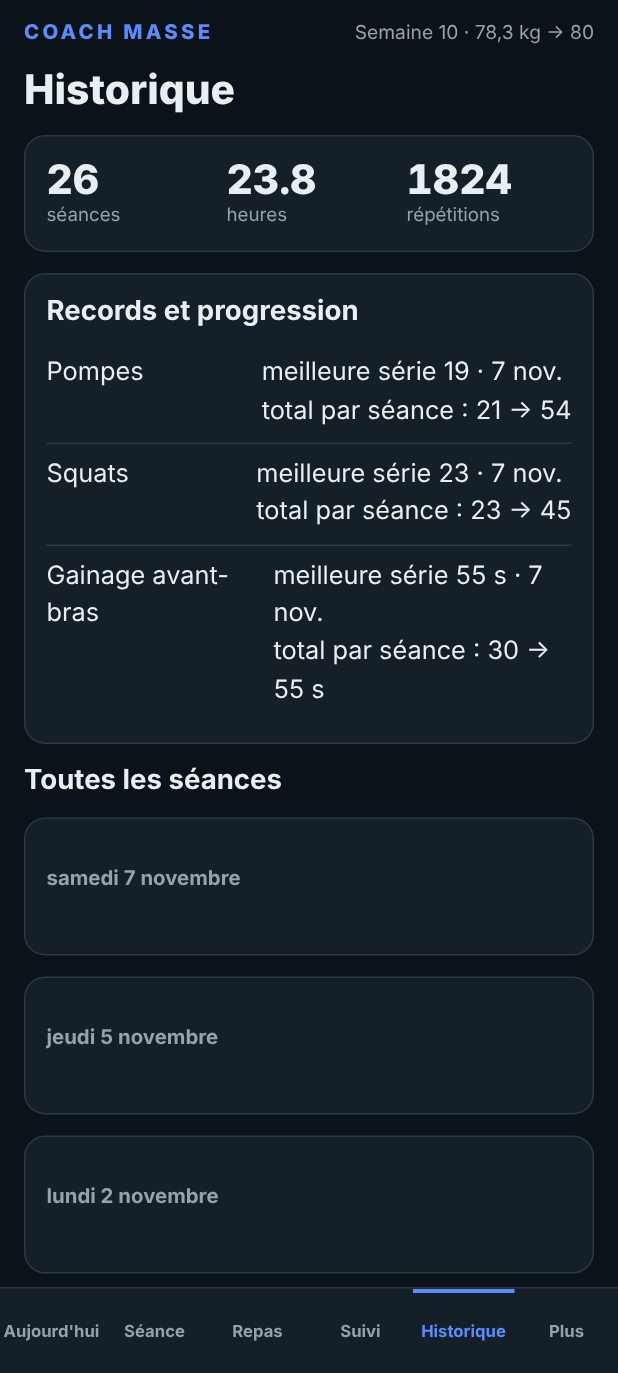
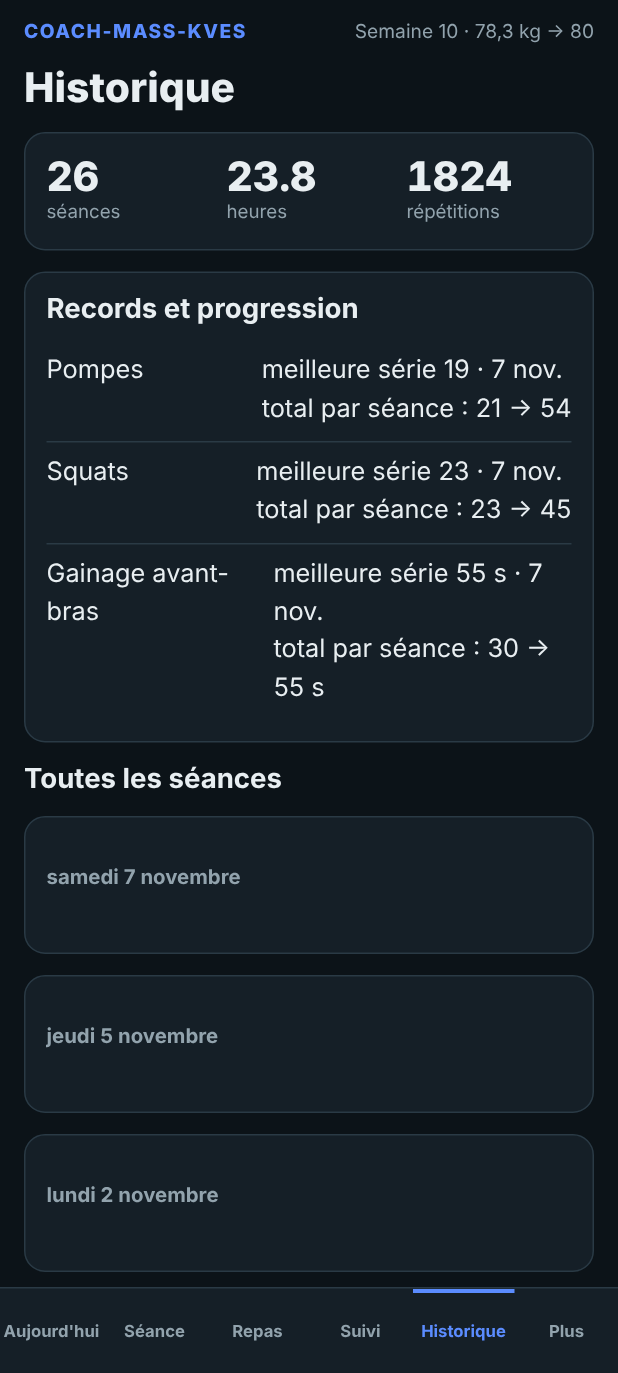
Add files via upload

diff --git a/app.js b/app.js
@@ -1,13 +1,15 @@
-/* FICHIER GÉNÉRÉ par build.js à partir de src/. Ne le modifie pas à la main : modifie src/ puis lance : node build.js */
+/* © KVES · Coach-Mass-KVES. FICHIER GÉNÉRÉ par build.js à partir de src/. Ne le modifie pas à la main : modifie src/ puis lance : node build.js */
 (function () {
 'use strict';
 
+/* © KVES · Coach-Mass-KVES */
 
 /* ====================== données fixes ====================== */
 var KEY = 'coach-masse-v1';
 var JOURS = ['Dim', 'Lun', 'Mar', 'Mer', 'Jeu', 'Ven', 'Sam'];
 
-var VERSION = '9';
+var VERSION = '10';
+var NOM = 'Coach-Mass-KVES', AUTEUR = 'KVES';
 var WARM = [
   { l: 'Sauts légers sur place', s: 60, fig: 'jump', period: 0.9 },
   { l: 'Rotations des épaules et des hanches', s: 60, fig: 'arms', period: 2.4 },
@@ -81,6 +83,7 @@ var MEALS = [
 var EXTRA = { t: 'Avant de dormir', x: 'Verre de lait + 1 pain à l\'amlou (ajout de 300 kcal)', k: 300, p: 10 };
 var BASE_KCAL = MEALS.reduce(function (a, m) { return a + m.k; }, 0);
 
+/* © KVES · Coach-Mass-KVES */
 /* ====================== état ====================== */
 function pad(n) { return String(n).padStart(2, '0'); }
 function dstr(d) { return d.getFullYear() + '-' + pad(d.getMonth() + 1) + '-' + pad(d.getDate()); }
@@ -165,6 +168,7 @@ function suggestion() {
   return null;
 }
 
+/* © KVES · Coach-Mass-KVES */
 /* ====================== utilitaires UI ====================== */
 function $(s, r) { return (r || document).querySelector(s); }
 function esc(s) { return String(s).replace(/[&<>"]/g, function (c) { return { '&': '&amp;', '<': '&lt;', '>': '&gt;', '"': '&quot;' }[c]; }); }
@@ -183,6 +187,7 @@ function drawEx(e, single) {
     figure(e.a, 0, e.la) + (single ? '' : figure(e.b, 220, e.lb, e.bad2)) + '</svg></div>';
 }
 
+/* © KVES · Coach-Mass-KVES */
 /* ====================== animations ====================== */
 var REDUCED = false;
 try { REDUCED = window.matchMedia('(prefers-reduced-motion: reduce)').matches; } catch (e) {}
@@ -259,6 +264,7 @@ function frame(ts) {
   }
 }
 
+/* © KVES · Coach-Mass-KVES */
 /* ====================== coach (messages) ====================== */
 function pick(a) { var d = new Date(); return a[(d.getDate() + d.getHours()) % a.length]; }
 function coachMsg() {
@@ -274,6 +280,7 @@ function coachMsg() {
   return ['Jour de récupération', pick(['Récupération. 30 minutes de marche, tes 5 repas, 2,5 litres d\'eau. Rien de plus, rien de moins.', 'Pas de séance. Le muscle se construit maintenant : mange, bois, dors.'])];
 }
 
+/* © KVES · Coach-Mass-KVES */
 /* ====================== rendu des onglets ====================== */
 var tab = 'today';
 var view = $('#view');
@@ -342,6 +349,7 @@ function viewMeals() {
   return h;
 }
 
+/* © KVES · Coach-Mass-KVES */
 var CH = { range: 56, ex: 'total' };
 var delArmed = -1;
 function sdate(d) { return new Date(d + 'T00:00:00').toLocaleDateString('fr-FR', { day: 'numeric', month: 'short' }); }
@@ -515,6 +523,7 @@ function viewHistory() {
   return h;
 }
 
+/* © KVES · Coach-Mass-KVES */
 function tog(key, label, hint) {
   return '<label class="meal"><input type="checkbox" data-set="' + key + '"' + (P[key] ? ' checked' : '') + '><span><b>' + label + '</b>' + (hint ? '<br><span class="small">' + hint + '</span>' : '') + '</span></label>';
 }
@@ -550,6 +559,7 @@ function render() {
   document.querySelectorAll('#nav button').forEach(function (b) { b.classList.toggle('on', b.getAttribute('data-v') === (({ avis: 'more', settings: 'more', owner: 'more' })[tab] || tab)); });
 }
 
+/* © KVES · Coach-Mass-KVES */
 /* ====================== audio, voix, vibration ====================== */
 var actx = null;
 function unlockAudio() {
@@ -615,6 +625,7 @@ function wake() { try { if (navigator.wakeLock) navigator.wakeLock.request('scre
 function unwake() { try { wl && wl.release(); } catch (e) {} wl = null; }
 document.addEventListener('visibilitychange', function () { if (R && document.visibilityState === 'visible') wake(); });
 
+/* © KVES · Coach-Mass-KVES */
 /* ====================== séance guidée ====================== */
 var R = null;
 var runner = $('#runner');
@@ -803,6 +814,7 @@ function drawDone() {
   runner.innerHTML = h;
 }
 
+/* © KVES · Coach-Mass-KVES */
 /* ====================== boîte à avis (chiffrée de bout en bout) ====================== */
 /* Principe : l'avis est chiffré sur le téléphone de l'utilisateur avec la clé PUBLIQUE du propriétaire
    (ECDH P-256 éphémère + HKDF-SHA256 + AES-256-GCM). Seule la clé PRIVÉE du propriétaire, gardée sur son
@@ -968,7 +980,7 @@ function owIngest(text) {
   });
 }
 function owReadable() {
-  var out = 'Avis reçus - Coach Masse (export du ' + today() + ')\n\n';
+  var out = 'Avis reçus - Coach-Mass-KVES (export du ' + today() + ')\n\n';
   OW.items.slice().reverse().forEach(function (x) {
     var d = x.data;
     if (!d) return;
@@ -978,12 +990,13 @@ function owReadable() {
 }
 
 /* envoi par l'utilisateur */
-function avText(code) { return 'Avis pour Coach Masse (chiffré : seul le propriétaire peut le lire)\n' + code; }
+function avText(code) { return 'Avis pour Coach-Mass-KVES (chiffré : seul le propriétaire peut le lire)\n' + code; }
 function avValidate() {
   var n = AV.name.trim(), e = AV.email.trim(), m = AV.msg.trim();
   if (n.length < 2) return 'Écris ton nom.';
   if (!EMAIL_RE.test(e)) return 'Écris une adresse e-mail valide.';
   if (m.length < 5) return 'Écris ton message (5 caractères minimum).';
+  if (/CM[01]\.[A-Za-z0-9_-]{40,}/.test(m) || /^Avis pour Coach/i.test(m)) return 'Ton message contient un code d\'avis déjà chiffré. Efface-le et écris ton texte à la main.';
   if (!AV.consent) return 'Coche la case pour accepter.';
   var last = D.avis.sent[0];
   if (last && Date.now() - last.id < 30000) return 'Attends quelques secondes avant un nouvel avis.';
@@ -1009,11 +1022,11 @@ function avShare(it, via) {
   var text = avText(it.code);
   function mark() { it.shared = true; save(); render(); }
   if (via === 'mail' && CFG.email) {
-    mark(); window.location.href = 'mailto:' + CFG.email + '?subject=' + encodeURIComponent('Avis Coach Masse') + '&body=' + encodeURIComponent(text);
+    mark(); window.location.href = 'mailto:' + CFG.email + '?subject=' + encodeURIComponent('Avis Coach-Mass-KVES') + '&body=' + encodeURIComponent(text);
   } else if (via === 'wa' && CFG.whatsapp) {
     mark(); window.open('https://wa.me/' + String(CFG.whatsapp).replace(/\D/g, '') + '?text=' + encodeURIComponent(text), '_blank');
   } else if (navigator.share) {
-    navigator.share({ title: 'Avis Coach Masse', text: text }).then(mark).catch(function () {});
+    navigator.share({ title: 'Avis Coach-Mass-KVES', text: text }).then(mark).catch(function () {});
   } else { copyText(text); }
 }
 
@@ -1023,7 +1036,7 @@ function viewMore() {
   return '<h1>Plus</h1>' +
     '<div class="card"><h2>Boîte à avis</h2><p class="small">Une idée, un problème, un merci ? Ton avis est chiffré sur ton téléphone avant l\'envoi : seul le propriétaire de l\'application peut le lire.</p><button class="btn" data-act="tab" data-v="avis">Donner mon avis</button></div>' +
     '<div class="card"><h2>Réglages</h2><p class="small">Jours de séance, voix, sons, objectif de poids, rotation de l\'écran.</p><button class="btn alt" data-act="tab" data-v="settings">Ouvrir les réglages</button></div>' +
-    '<div class="card"><h2>À propos</h2><p class="small">Coach Masse · version ' + VERSION + '. Tes données restent sur ton téléphone.</p><button class="btn alt sm back" data-act="tab" data-v="owner">Espace propriétaire</button></div>';
+    '<div class="card"><h2>À propos</h2><img class="banner" src="banner.jpg" alt="' + NOM + '" width="1200" height="593"><p class="small">' + NOM + ' · version ' + VERSION + ' · © ' + AUTEUR + '. Tes données restent sur ton téléphone.</p><button class="btn alt sm back" data-act="tab" data-v="owner">Espace propriétaire</button></div>';
 }
 function avItem(it, i) {
   var share = navigator.share ? '<button class="btn sm grow" data-act="avshare" data-i="' + i + '" data-via="share">Partager</button>' : '';
@@ -1097,7 +1110,7 @@ function viewOwner() {
       '<p class="small">' + esc(d.d || x.rec.added) + ' · ' + esc(d.e) + ' · v' + esc(d.a) + ' · ' + esc(d.s) + '</p>' +
       '<p class="msgtxt">' + esc(d.m) + '</p><div class="row">' +
       '<button class="btn sm" data-act="owstatus" data-i="' + i + '">' + ST_LABEL[st] + '</button>' +
-      (okMail ? '<a class="btn alt sm linkbtn" href="mailto:' + esc(d.e) + '?subject=' + encodeURIComponent('Re : ton avis sur Coach Masse') + '">Répondre</a>' : '') +
+      (okMail ? '<a class="btn alt sm linkbtn" href="mailto:' + esc(d.e) + '?subject=' + encodeURIComponent('Re : ton avis sur Coach-Mass-KVES') + '">Répondre</a>' : '') +
       '<button class="btn alt sm" data-act="owdel" data-i="' + i + '">' + (OW.armed === 'd' + i ? 'Confirmer' : 'Supprimer') + '</button></div></div>';
   }
   if (!shown) h += '<div class="card"><p class="small">' + (items.length ? 'Aucun avis dans ce filtre.' : 'Aucun avis pour le moment. Quand un utilisateur t\'en envoie un, colle-le ci-dessus.') + '</p></div>';
@@ -1142,7 +1155,7 @@ document.addEventListener('click', function (ev) {
     return;
   }
   if (a === 'owlock') { owLock(); render(); return; }
-  if (a === 'owexportkey') { var rec = ownerRec(); if (rec) download('coach-masse-cle-proprietaire.json', JSON.stringify(rec), 'application/json'); return; }
+  if (a === 'owexportkey') { var rec = ownerRec(); if (rec) download('coach-mass-kves-cle-proprietaire.json', JSON.stringify(rec), 'application/json'); return; }
   if (a === 'owimportkey') { $('#keyFile').click(); return; }
   if (a === 'owdelkey') {
     if (OW.armed !== 'key') { OW.armed = 'key'; render(); return; }
@@ -1165,7 +1178,7 @@ document.addEventListener('click', function (ev) {
     return;
   }
   if (a === 'owcopyall') { if (OW.items) copyText(owReadable()); return; }
-  if (a === 'owexport') { if (OW.items) download('coach-masse-avis.txt', owReadable(), 'text/plain'); return; }
+  if (a === 'owexport') { if (OW.items) download('coach-mass-kves-avis.txt', owReadable(), 'text/plain'); return; }
 });
 $('#keyFile').addEventListener('change', function (ev) {
   var f = ev.target.files && ev.target.files[0];
@@ -1194,6 +1207,7 @@ document.addEventListener('visibilitychange', function () {
   else if (OW.priv && OW.hiddenAt && Date.now() - OW.hiddenAt > 5 * 60000) { owLock(); render(); }
 });
 
+/* © KVES · Coach-Mass-KVES */
 /* ====================== v7 : thème, courses, rappels, mini-compteurs ====================== */
 /* thème */
 function applyTheme() {
@@ -1211,6 +1225,7 @@ function themeCard() {
   return '<div class="seg" role="group" aria-label="Thème">' + [['auto', 'Auto'], ['light', 'Clair'], ['dark', 'Sombre']].map(function (x) { return '<button data-act="theme" data-v="' + x[0] + '" class="' + (th === x[0] ? 'on' : '') + '">' + x[1] + '</button>'; }).join('') + '</div><p class="small">Auto suit le mode clair ou sombre d\'Android. Le fond, la barre d\'état et les graphiques suivent ton choix.</p>';
 }
 
+/* © KVES · Coach-Mass-KVES */
 /* liste de courses */
 function qG(g) { return g >= 1000 ? (Math.round(g / 100) / 10).toString().replace('.', ',') + ' kg' : g + ' g'; }
 function qL(l) { return (Math.ceil(l * 2) / 2).toString().replace('.', ',') + ' L'; }
@@ -1251,6 +1266,7 @@ function shopText() {
   return 'Courses (' + P.shopDays + ' jours)\n' + shopList().map(function (x) { return '- ' + x[1] + ' : ' + x[2]; }).join('\n');
 }
 
+/* © KVES · Coach-Mass-KVES */
 /* rappels */
 function hm(s) { var m = /^(\d{1,2}):(\d{2})$/.exec(s || ''); return m ? +m[1] * 60 + +m[2] : null; }
 function mealsAllDone() { var c = (D.logs[today()] || {}).meals || []; return mealsList().every(function (_, i) { return c[i]; }); }
@@ -1270,7 +1286,7 @@ function syncRemind() {
 }
 function sysNotify(txt, tag) {
   if (!('Notification' in window) || Notification.permission !== 'granted' || !navigator.serviceWorker) return false;
-  navigator.serviceWorker.ready.then(function (reg) { reg.showNotification('Coach Masse', { body: txt, tag: tag, icon: 'icon-192.png', badge: 'icon-192.png', vibrate: [200, 100, 200] }); }).catch(function () {});
+  navigator.serviceWorker.ready.then(function (reg) { reg.showNotification('Coach-Mass-KVES', { body: txt, tag: tag, icon: 'icon-192.png', badge: 'icon-192.png', vibrate: [200, 100, 200] }); }).catch(function () {});
   return true;
 }
 function rmNotify(kind) {
@@ -1302,10 +1318,11 @@ function rmCard() {
     '<div class="grid2"><label class="f">Poids à<input type="time" data-rm="w" value="' + esc(P.rmW) + '"></label><label class="f">Repas à<input type="time" data-rm="m" value="' + esc(P.rmM) + '"></label></div>' +
     '<p class="small">' + (np === 'granted' ? 'Notifications autorisées. ' : np === 'denied' ? 'Notifications bloquées : autorise-les dans les réglages Android de Chrome. ' : np === 'none' ? 'Notifications non disponibles ici. ' : '') +
     'Application fermée, Android peut retarder ou ignorer le rappel. Pour être sûr de l\'heure, ajoute une alarme dans l\'Horloge.</p>' +
-    '<div class="row"><button class="btn alt sm" data-act="rmtest">Tester</button><a class="btn alt sm linkbtn" href="' + alarmHref(P.rmW, 'Coach Masse : poids') + '">Alarme poids</a><a class="btn alt sm linkbtn" href="' + alarmHref(P.rmM, 'Coach Masse : repas') + '">Alarme repas</a></div>' +
+    '<div class="row"><button class="btn alt sm" data-act="rmtest">Tester</button><a class="btn alt sm linkbtn" href="' + alarmHref(P.rmW, 'Coach-Mass-KVES : poids') + '">Alarme poids</a><a class="btn alt sm linkbtn" href="' + alarmHref(P.rmM, 'Coach-Mass-KVES : repas') + '">Alarme repas</a></div>' +
     '<p class="small">Si le bouton Alarme n\'ouvre rien, ouvre l\'Horloge et crée une alarme quotidienne à la main.</p></div>';
 }
 
+/* © KVES · Coach-Mass-KVES */
 /* mini compteur et minuteur par exercice */
 var MT = {}, MT_I = null;
 function mt(id) { return MT[id] || (MT[id] = { c: 0, ms: 0, run: false, t0: 0, beeped: false }); }
@@ -1406,6 +1423,7 @@ document.addEventListener('visibilitychange', function () { if (document.visibil
 if (P.rmOn) { regPeriodic(); setTimeout(rmCheck, 1500); }
 
 
+/* © KVES · Coach-Mass-KVES */
 /* ====================== sauvegarde : copies automatiques, rappel, export, restauration ====================== */
 /* Les copies automatiques sont gardées dans IndexedDB (autre espace que le stockage principal) : elles protègent
    contre une erreur (effacement, import raté, données abîmées), pas contre un « Effacer les données » de Chrome.
@@ -1481,8 +1499,8 @@ function applyData(o, label) {
 /* export : partage de fichier (Drive, WhatsApp, e-mail...) ou téléchargement */
 function bkMark() { P.bkLast = today(); save(); render(); toast('Sauvegarde créée.'); }
 function exportData() {
-  var txt = JSON.stringify({ coachMasse: VERSION, exportedAt: new Date().toISOString(), data: D });
-  var name = 'coach-masse-sauvegarde-' + today() + '.json', file = null;
+  var txt = JSON.stringify({ app: NOM, auteur: AUTEUR, coachMasse: VERSION, exportedAt: new Date().toISOString(), data: D });
+  var name = 'coach-mass-kves-sauvegarde-' + today() + '.json', file = null;
   function dl() {
     try {
       var b = new Blob([txt], { type: 'application/json' }), a = document.createElement('a');
@@ -1493,7 +1511,7 @@ function exportData() {
   }
   try { file = new File([txt], name, { type: 'application/json' }); } catch (e) {}
   if (file && navigator.canShare && navigator.canShare({ files: [file] })) {
-    navigator.share({ files: [file], title: 'Sauvegarde Coach Masse' }).then(bkMark).catch(function (e) { if (!e || e.name !== 'AbortError') dl(); });
+    navigator.share({ files: [file], title: 'Sauvegarde Coach-Mass-KVES' }).then(bkMark).catch(function (e) { if (!e || e.name !== 'AbortError') dl(); });
   } else dl();
 }
 function bkDays() { return P.bkLast ? dnum(today()) - dnum(P.bkLast) : null; }
@@ -1562,6 +1580,7 @@ document.addEventListener('visibilitychange', function () { if (document.visibil
 setTimeout(bkAuto, 2500);
 try { if (navigator.storage && navigator.storage.persist) navigator.storage.persist().then(function (p) { PERSIST = p; if (tab === 'settings') render(); }); } catch (e) {}
 
+/* © KVES · Coach-Mass-KVES */
 /* ====================== événements ====================== */
 document.addEventListener('click', function (ev) {
   var t = ev.target.closest('[data-act]');
@@ -1671,6 +1690,7 @@ document.addEventListener('change', function (ev) {
     var lg = log(); lg.meals = lg.meals || []; lg.meals[+t.getAttribute('data-i')] = t.checked; save();
   }
 });
+/* © KVES · Coach-Mass-KVES */
 applyRotate();
 render();
 requestAnimationFrame(frame);

diff --git a/sw.js b/sw.js
@@ -1,5 +1,6 @@
-var CACHE = 'coach-masse-v9';
-var FILES = ['./', 'index.html', 'styles.css', 'app.js', 'avis-config.js', 'manifest.webmanifest', 'icon-192.png', 'icon-512.png'];
+/* © KVES · Coach-Mass-KVES */
+var CACHE = 'coach-masse-v10';
+var FILES = ['./', 'index.html', 'styles.css', 'app.js', 'avis-config.js', 'banner.jpg', 'manifest.webmanifest', 'icon-192.png', 'icon-512.png'];
 self.addEventListener('install', function (e) {
   e.waitUntil(caches.open(CACHE).then(function (c) {
     return Promise.all(FILES.map(function (f) { return c.add(new Request(f, { cache: 'reload' })).catch(function () {}); }));
@@ -42,8 +43,8 @@ self.addEventListener('periodicsync', function (e) {
       var d = new Date(), n = d.getHours() * 60 + d.getMinutes(), t = d.getFullYear() + '-' + ('0' + (d.getMonth() + 1)).slice(-2) + '-' + ('0' + d.getDate()).slice(-2);
       function mins(s) { var m = /^(\d{1,2}):(\d{2})$/.exec(s || ''); return m ? +m[1] * 60 + +m[2] : null; }
       var jobs = [];
-      if (mins(o.w) !== null && n >= mins(o.w) && o.wd !== t && o.lw !== t) { o.lw = t; jobs.push(self.registration.showNotification('Coach Masse', { body: 'Pèse-toi à jeun et note ton poids.', tag: 'cm-w', icon: 'icon-192.png', badge: 'icon-192.png' })); }
-      if (mins(o.m) !== null && n >= mins(o.m) && o.md !== t && o.lm !== t) { o.lm = t; jobs.push(self.registration.showNotification('Coach Masse', { body: 'Valide tes repas du jour.', tag: 'cm-m', icon: 'icon-192.png', badge: 'icon-192.png' })); }
+      if (mins(o.w) !== null && n >= mins(o.w) && o.wd !== t && o.lw !== t) { o.lw = t; jobs.push(self.registration.showNotification('Coach-Mass-KVES', { body: 'Pèse-toi à jeun et note ton poids.', tag: 'cm-w', icon: 'icon-192.png', badge: 'icon-192.png' })); }
+      if (mins(o.m) !== null && n >= mins(o.m) && o.md !== t && o.lm !== t) { o.lm = t; jobs.push(self.registration.showNotification('Coach-Mass-KVES', { body: 'Valide tes repas du jour.', tag: 'cm-m', icon: 'icon-192.png', badge: 'icon-192.png' })); }
       return Promise.all(jobs).then(function () { return c.put('remind.json', new Response(JSON.stringify(o))); });
     });
   }));

diff --git a/styles.css b/styles.css
@@ -1,3 +1,4 @@
+/* © KVES · Coach-Mass-KVES */
 :root {
   --bg: #0C1318; --surface: #151F27; --surface2: #1D2A34; --fg: #E8EEF1; --muted: #92A3AD; --line: #2A3A45;
   --accent: #5B8CFF; --accent-ink: #08121F; --ok: #4CC38A; --warn: #F2B84B; --bad: #FF7A66;
@@ -20,7 +21,7 @@ body {
   touch-action: manipulation; overscroll-behavior-y: contain;
 }
 .top { display: flex; justify-content: space-between; align-items: center; padding: 12px max(16px, env(safe-area-inset-right, 0px)) 4px max(16px, env(safe-area-inset-left, 0px)); }
-.brand { font-weight: 800; letter-spacing: 0.16em; font-size: 0.85rem; color: var(--accent); }
+.brand { font-weight: 800; letter-spacing: 0.08em; font-size: 0.8rem; color: var(--accent); }
 .tag { font-size: 0.8rem; color: var(--muted); }
 main { padding: 8px max(16px, env(safe-area-inset-right, 0px)) calc(96px + env(safe-area-inset-bottom, 0px)) max(16px, env(safe-area-inset-left, 0px)); max-width: 760px; margin: 0 auto; display: flex; flex-direction: column; gap: 14px; }
 h1, h2, h3 { margin: 0; line-height: 1.15; }
@@ -188,3 +189,4 @@ input[type="time"] { font: inherit; font-size: 1.05rem; color: var(--fg); backgr
 .mtv { font-size: 1.7rem; min-width: 2.4ch; text-align: center; font-variant-numeric: tabular-nums; }
 .mtv.wide { min-width: 3.6ch; }
 .btn.round { width: 52px; min-width: 52px; padding: 0; font-size: 1.5rem; }
+.banner { width: 100%; height: auto; border-radius: 12px; display: block; margin: 6px 0 10px; }

diff --git a/index.html b/index.html
@@ -1,9 +1,13 @@
+<!-- © KVES · Coach-Mass-KVES -->
 <!doctype html>
 <html lang="fr">
 <head>
 <meta charset="utf-8">
 <meta name="viewport" content="width=device-width, initial-scale=1, viewport-fit=cover">
-<title>Coach Masse</title>
+<title>Coach-Mass-KVES</title>
+<meta name="author" content="KVES">
+<meta name="application-name" content="Coach-Mass-KVES">
+<meta name="apple-mobile-web-app-title" content="Coach-Mass">
 <meta name="theme-color" content="#0C1318" media="(prefers-color-scheme: dark)">
 <meta name="theme-color" content="#F2F4F3" media="(prefers-color-scheme: light)">
 <script>try{var __t=JSON.parse(localStorage.getItem("coach-masse-v1")||"{}").profile.theme;if(__t==="light"||__t==="dark")document.documentElement.setAttribute("data-theme",__t)}catch(e){}</script>
@@ -13,7 +17,7 @@
 <link rel="stylesheet" href="styles.css">
 </head>
 <body>
-<header class="top"><span class="brand">COACH MASSE</span><span id="weekTag" class="tag"></span></header>
+<header class="top"><span class="brand">COACH-MASS-KVES</span><span id="weekTag" class="tag"></span></header>
 <main id="view" aria-live="polite"></main>
 <nav class="tabs" id="nav" aria-label="Navigation">
   <button data-act="tab" data-v="today">Aujourd'hui</button>

diff --git a/README.md b/README.md
@@ -1,8 +1,10 @@
-# Coach Masse
+<p align="center"><img src="banner.jpg" alt="Coach-Mass-KVES : ton corps, ton rythme, ton coach" width="100%"></p>
+
+# Coach-Mass-KVES
 
 Un coach de poche pour prendre du muscle et du poids à la maison, sans salle de sport, sans compte et sans connexion internet.
 
-Version 9 · Application web installable (PWA) · Toutes les données restent sur ton téléphone
+Version 10 · © KVES · Application web installable (PWA) · Toutes les données restent sur ton téléphone
 
 <p align="center">
   <img src="capture-aujourdhui.png" alt="Écran Aujourd'hui" width="23%">
@@ -18,7 +20,7 @@ Version 9 · Application web installable (PWA) · Toutes les données restent su
 
 ## En bref
 
-Coach Masse accompagne une personne mince qui veut gagner de la masse musculaire en s'entraînant chez elle, avec le seul poids du corps. L'application réunit au même endroit :
+Coach-Mass-KVES accompagne une personne mince qui veut gagner de la masse musculaire en s'entraînant chez elle, avec le seul poids du corps. L'application réunit au même endroit :
 
 - **3 séances d'une heure par semaine**, guidées à la voix, avec des dessins animés pour chaque exercice ;
 - **un plan de 5 repas par jour** pour atteindre les calories et les protéines nécessaires, même quand l'appétit est petit ;
@@ -30,7 +32,7 @@ Elle s'installe comme une vraie application sur un téléphone Android, fonction
 
 Prendre du poids sans salle demande trois choses qu'on fait rarement ensemble : s'entraîner régulièrement, manger assez, et mesurer ses progrès. Sans cadre, on saute une séance, on oublie un repas, et on ne sait plus si on avance.
 
-Coach Masse s'occupe de cette organisation :
+Coach-Mass-KVES s'occupe de cette organisation :
 
 | Le problème | Ce que fait l'application |
 |---|---|
@@ -110,6 +112,10 @@ Coche chaque repas quand tu l'as fini : la barre de calories se remplit. Des var
 - **Vibrations réglables** (*Réglages > Coach*) : intensité Normale, Forte (par défaut) ou Très forte, et un bouton *Tester la vibration* qui dit si Chrome l'a bloquée.
 - **Thème** (*Réglages > Affichage*) : Auto, Clair ou Sombre. Le fond, la barre d'état et les graphiques suivent ton choix.
 
+### Signature KVES
+
+Chaque fichier source porte la marque `© KVES · Coach-Mass-KVES`, qui apparaît aussi dans *Plus > À propos* et dans les fichiers de sauvegarde. `SIGNATURE-KVES.txt` liste l'empreinte SHA-256 de chaque fichier publié : si un fichier est modifié, son empreinte change (`sha256sum app.js` pour vérifier). Ce n'est pas une signature cryptographique à clé : elle prouve l'intégrité, pas l'identité de l'auteur.
+
 ### Historique des versions
 
 | Version | Apports |
@@ -118,7 +124,8 @@ Coche chaque repas quand tu l'as fini : la barre de calories se remplit. Des var
 | 6 | Onglet Plus, boîte à avis chiffrée de bout en bout, espace propriétaire |
 | 7 | Liste de courses automatique, rappels poids et repas, mini-compteur et minuteur par exercice, thème Auto, Clair ou Sombre |
 | 8 | Sauvegarde (copies automatiques, rappel, export, restauration), code découpé en modules, tests automatiques |
-| 9 | Vibrations plus fortes et réglables, test de vibration, versions et documents harmonisés |
+| 9 | Vibrations plus fortes et réglables, test de vibration, nouveau logo, nom Coach-Mass-KVES, signature KVES |
+| 10 | Garde-fou de la boîte à avis : un message contenant déjà un code d'avis chiffré est refusé |
 
 ### 5. Suivre ses progrès (onglets Suivi et Historique)
 
@@ -229,6 +236,8 @@ Le projet est une application web statique : du HTML, du CSS et du JavaScript, s
 | `build.js` | Assemble `src/` en `app.js` : `node build.js` |
 | `tests/run.js` | Tests automatiques : `node build.js && node tests/run.js` |
 | `styles.css` | Styles, thèmes clair et sombre, adaptation portrait et paysage |
+| `banner.jpg` | Bannière du projet (README et Plus > À propos) |
+| `SIGNATURE-KVES.txt` | Signature KVES : empreintes SHA-256 des fichiers publiés, régénérées par `node build.js` |
 | `avis-config.js` | Clé publique de la boîte à avis (et contacts facultatifs) |
 | `sw.js` | Service worker : fonctionnement hors ligne et mises à jour |
 | `manifest.webmanifest` | Réglages d'installation (nom, icônes, orientation) |
@@ -236,7 +245,7 @@ Le projet est une application web statique : du HTML, du CSS et du JavaScript, s
 
 **Modifier le code.** On modifie les fichiers de `src/`, jamais `app.js`. Ensuite `node build.js` régénère `app.js`, et `node tests/run.js` lance une soixantaine de vérifications (démarrage, onglets, débordements d'écran, courses, minuteur, thème, sauvegarde et restauration, données abîmées, boîte à avis chiffrée). Les tests demandent Node.js et Playwright (`npm i -D playwright`). Seuls les fichiers de la racine servent à l'application : `src/`, `tests/` et `build.js` sont facultatifs sur GitHub Pages.
 
-**Publier ou mettre à jour avec GitHub Pages.** Dans le dépôt, *Add file > Upload files* pour envoyer ou remplacer les fichiers, puis *Settings > Pages*, branche `main`, dossier `/ (root)`. Les fichiers sont rechargés depuis le réseau dès qu'il est disponible. Pour forcer le nettoyage de l'ancien cache, change son nom dans `sw.js` (par exemple `coach-masse-v9` devient `coach-masse-v10`).
+**Publier ou mettre à jour avec GitHub Pages.** Dans le dépôt, *Add file > Upload files* pour envoyer ou remplacer les fichiers, puis *Settings > Pages*, branche `main`, dossier `/ (root)`. Les fichiers sont rechargés depuis le réseau dès qu'il est disponible. Pour forcer le nettoyage de l'ancien cache, change son nom dans `sw.js` (par exemple `coach-masse-v10` devient `coach-masse-v11`).
 
 **Compatibilité.** L'application est conçue pour Chrome sur Android. La mise en page a été vérifiée avec des largeurs d'écran de 320 à 1 180 pixels, en portrait et en paysage. Les autres navigateurs n'ont pas été testés.
 
